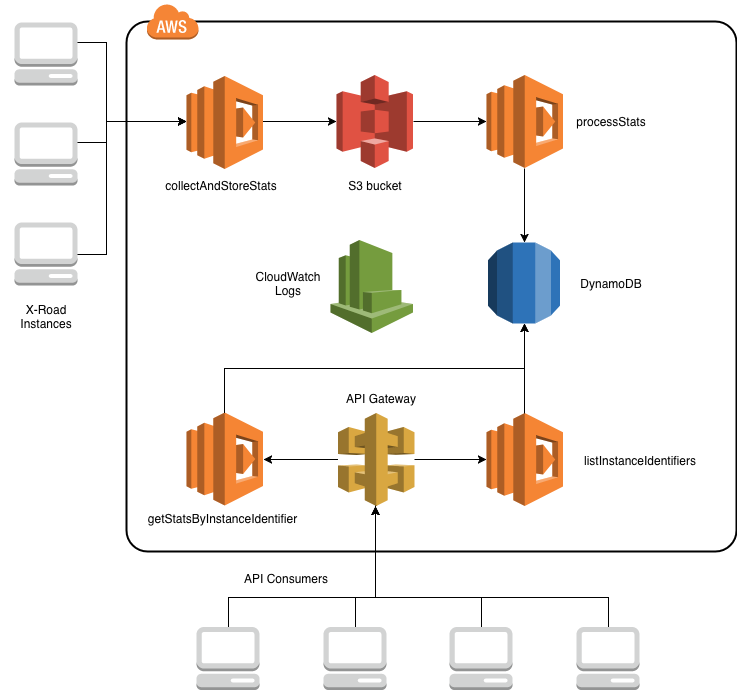
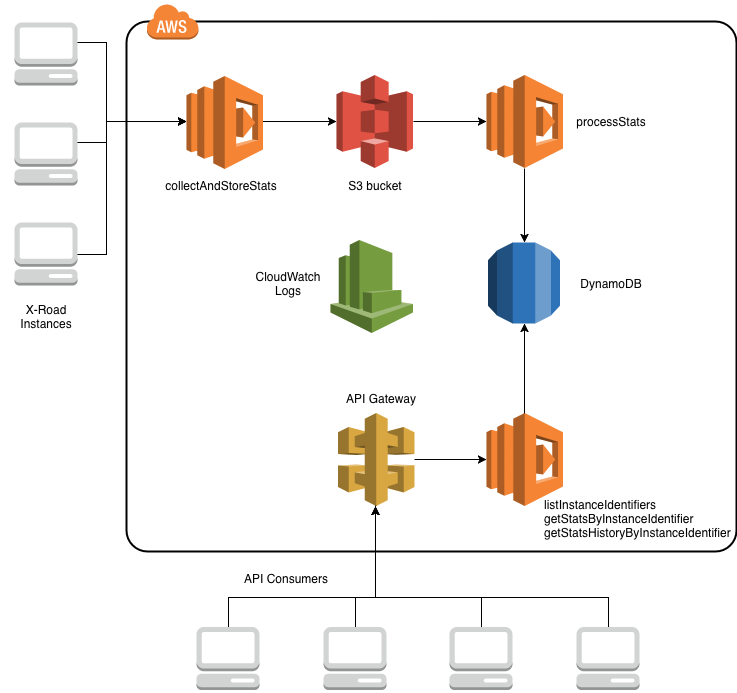
Update Readme and architecture diagram

Changed region(s): [[0.1872, 0.5758, 0.4057, 0.7576], [0.7178, 0.697, 0.9986, 0.7879], [0.7802, 0.6364, 0.9362, 0.6667]]

diff --git a/README.md b/README.md
@@ -115,7 +115,7 @@ the data.
 
 ![](images/architecture.png)
 
-The advanced version includes four AWS lambda functions:
+The advanced version includes five AWS lambda functions:
 
 * `collectAndStoreStats`
   * Fetches global configuration from one or more X-Road instances, extracts
